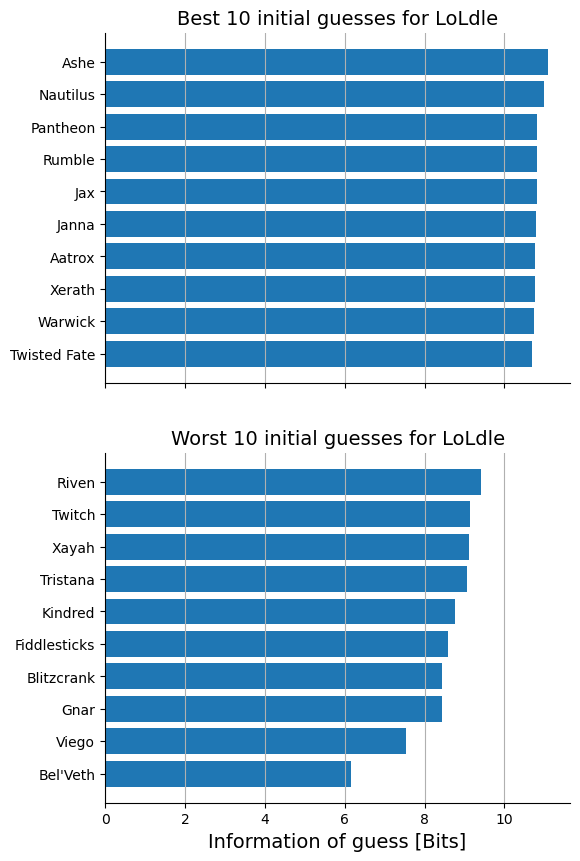
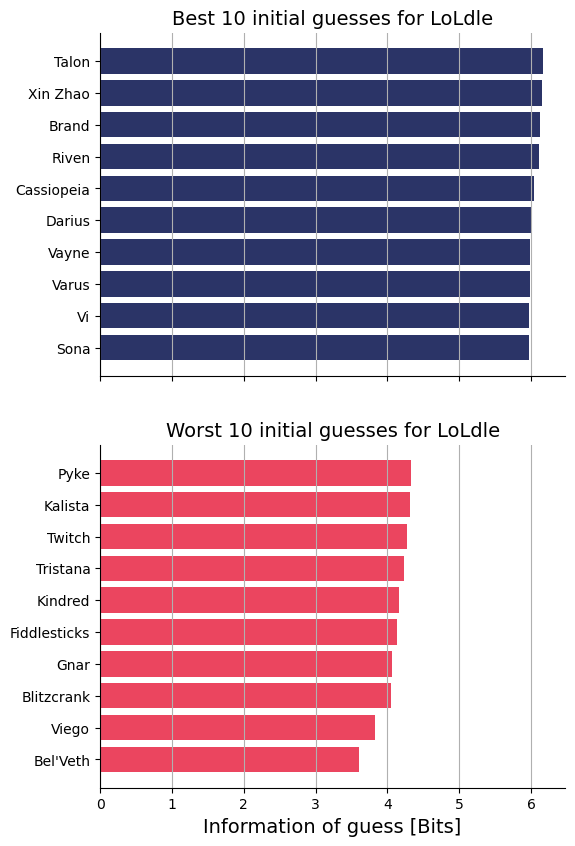
Fixed entropy calculation. Added results csv

diff --git a/graph.py b/graph.py
@@ -25,8 +25,9 @@ def plot_best_worst(guesses, n):
     best = list(reversed(guesses[:n]))
     worst = list(reversed(guesses[-n:]))
     fig, axes = plt.subplots(2, 1, figsize=(6, 10), sharex=True)
+    colors = ["#2B3467", "#EB455F"]
     for i, data in enumerate([best, worst]):
-        axes[i].barh(range(10), [c[1] for c in data])
+        axes[i].barh(range(10), [c[1] for c in data], color=colors[i])
         axes[i].set_yticks(range(10))
         axes[i].set_yticklabels([c[0] for c in data])
         axes[i].grid(axis="x")
@@ -37,6 +38,7 @@ def plot_best_worst(guesses, n):
     axes[1].set_xlabel("Information of guess [Bits]", size=14)
 
 
+
 if __name__ == "__main__":
     with open("resources/loldle-champ-data.json", "r") as file:
         champs = json.load(file)
@@ -45,3 +47,6 @@ if __name__ == "__main__":
     plt.savefig("graphs/best_worst.png", dpi=100, bbox_inches="tight")
     plot_information_boxplot(guesses)
     plt.savefig("graphs/information_boxplot.png", dpi=100, bbox_inches="tight")
+    with open("graphs/bits.csv", "w") as file:
+        for i, (c, b) in enumerate(guesses):
+            file.write("{},{},{:.3f}\n".format(i+1, c, b))

diff --git a/loldle.py b/loldle.py
@@ -56,8 +56,9 @@ def match_champion(champs, champ):
 
 def get_bits(matches):
     average = 0
+    n_champs = sum(map(len, matches.values()))
     for label, match in matches.items():
-        prop = len(match) / len(matches)
+        prop = len(match) / n_champs
         bits = log(1/prop, 2)
         average += prop * bits
     return average
@@ -71,15 +72,6 @@ def get_best_guesses(champs):
         bits[champname] = get_bits(matches)
     return sorted(bits.items(), key=lambda c: -c[1])
 
-# with open("resources/loldle-champ-data.json", "r") as file:
-#     champs = json.load(file)
-# matches = champs
-# while True:
-#     champ = input("- Perform a guess\n")
-#     champ = [c for c in champs if c["championName"] == champ][0]
-#     matches = match_champion(matches, champ)
-#     specifier = input("- Enter specifier\n")
-#     matches = matches[specifier]
-#     guesses = get_best_guesses(matches)
-#     for i in range(min(5, len(guesses))):
-#         print(f"{guesses[i][0]} ({guesses[i][1]})")
+if __name__ == "__main__":
+    with open("resources/loldle-champ-data.json", "r") as file:
+        champs = json.load(file)
